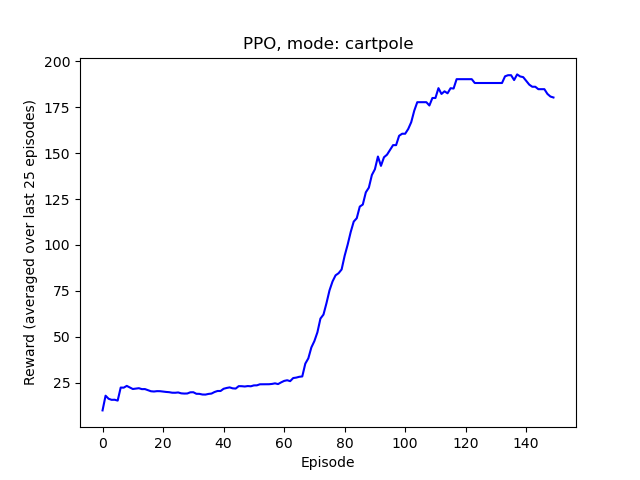
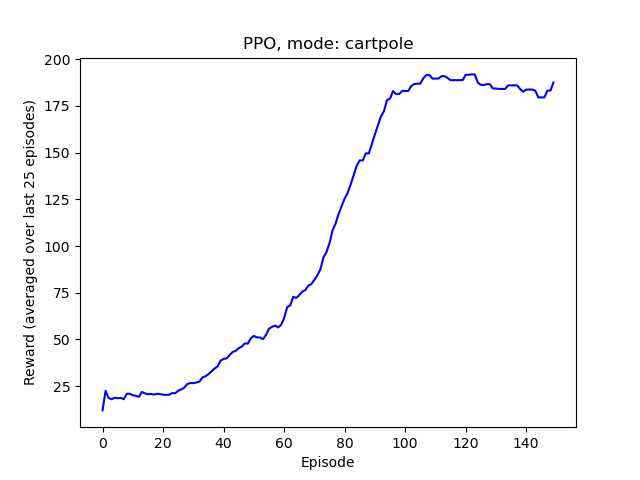
change ppo seed=7

diff --git a/a02/p2/PPO.py b/a02/p2/PPO.py
@@ -26,7 +26,7 @@ args = parser.parse_args()
 
 
 # Constants
-SEED = 1
+SEED = 7
 t = utils.torch.TorchHelper()
 DEVICE = t.device
 
